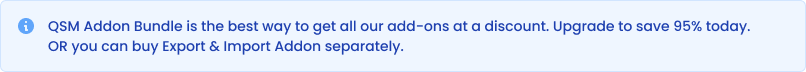
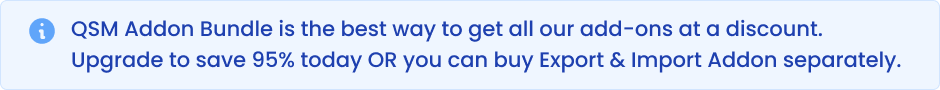
removed the inline css and made the popup div common

Changed region(s): [[0.0, 0.1944, 0.9305, 0.5], [0.062, 0.5556, 0.9615, 0.8333]]

diff --git a/css/qsm-admin.css b/css/qsm-admin.css
@@ -1729,6 +1729,17 @@ td.scheduled_time_start {
     box-sizing: border-box;
     padding: 10px;
 }
+.qsm-popup-upgrade-container{
+	padding:10px;
+}
+.qsm-popup-upgrade-close{
+	border:none;
+	padding:0px;
+}
+.qsm-popup-upgrade-text{
+	padding-top:none;
+	font-size:13px;
+}
 .qsm-upgrade-box h3{
     font-size: 20px;
     line-height: normal;
@@ -1793,6 +1804,15 @@ td.scheduled_time_start {
 .qsm-upgrade-chart{
 	width:100%;
 }
+.qsm-upgrade-chart img{
+	width:100%;
+}
+.qsm-popup-upgrade-info{
+	margin-top:20px;
+}
+.qsm-popup-upgrade-info img{
+	width:100%;
+}
 .qsm-upgrade-buttons-div{
 	width:98%;
 	box-sizing: border-box;
@@ -1808,6 +1828,26 @@ td.scheduled_time_start {
 	width:95%;
 	text-align: center;
 	padding-top:10px;
+}
+.qsm-upgrade-buttons-report-analysis{
+	flex-wrap: nowrap;
+	margin-left:-3px;
+	width:75%;
+}
+.qsm-upgrade-box .qsm-upgrade-buttons-report-analysis .qsm_bundle{
+	width:50%;
+	font-size:20px;
+}
+.qsm_report_analysis{
+	margin-left:-185px;
+	padding-left:10px;
+	color: #1D4ED8;
+	text-decoration:none;
+	font-weight: bold;
+	font-size:20px;
+	width: 100%;
+	text-align: center;
+	margin-top: 5px;
 }
 /** * Style tab design */
 .wp-upload-form {

diff --git a/js/qsm-admin.js b/js/qsm-admin.js
@@ -2692,7 +2692,7 @@ var import_button;
                         $('.correct-answer').show();
                     }
                     if (15 == question_val || 16 == question_val || 17 == question_val) {
-                        MicroModal.show('qsm_advanced_question_type_popup');
+                        MicroModal.show('modal-advanced-question-type');
                     } 
                     // show points field only for polar in survey and simple form
                     if (qsmQuestionSettings.form_type != 0) {

diff --git a/php/admin/functions.php b/php/admin/functions.php
@@ -1184,34 +1184,35 @@ function qsm_sanitize_rec_array( $array, $textarea = false ) {
 
 function qsm_admin_upgrade_popup( $qsm_pop_up_arguments ) {
 ?>
+<div class="qsm-popup qsm-popup-slide qsm-standard-popup qsm-popup-upgrade" id="<?php echo  $qsm_pop_up_arguments['popup_id']; ?>" aria-hidden="false" 
+	style="display:none">
 	<div class="qsm-popup__overlay" tabindex="-1">
-	<div class="qsm-popup__container" role="dialog" aria-modal="true" aria-labelledby="modal-export-import-title"
-	style="padding:10px">
+	<div class="qsm-popup__container qsm-popup-upgrade-container" role="dialog" aria-modal="true" aria-labelledby="modal-export-import-title">
 	<div class="qsm-upgrade-box">
 	<header class="qsm-popup__header" >
 		<h5><?php esc_html_e('PREMIUM', 'quiz-master-next'); ?></h5>
-		<a  class="qsm-popup__close" style="border:none;padding:0px;" aria-label="Close modal" data-micromodal-close></a>
+		<a  class="qsm-popup__close qsm-popup-upgrade-close" aria-label="Close modal" data-micromodal-close></a>
 	</header>
 <h2><?php echo $qsm_pop_up_arguments['popup_title']; ?></h2>
 <?php
 $read_icon_image             = plugins_url('', dirname(__FILE__)) . '/images/read_icon.png';
 ?>
-<div class="qsm-upgrade-text" style="padding-top:none;font-size:13px;"><?php echo  $qsm_pop_up_arguments['popup_description']; ?></div>
+<div class="qsm-upgrade-text qsm-popup-upgrade-text"><?php echo  $qsm_pop_up_arguments['popup_description']; ?></div>
 <span  class="qsm-upgrade-read-icon">
 	<img src= <?php echo $read_icon_image; ?> alt="read">&nbsp;<a href="<?php echo esc_url(qsm_get_plugin_link('docs/'.$qsm_pop_up_arguments['popup_doc_link'],
 	'quiz-help-box', 'add-ons')); ?>" target="_blank" rel="noopener" ><?php esc_html_e('Read Documentation', 'quiz-master-next' ); ?></a>
 	<span class="dashicons dashicons-arrow-right-alt qsm-upgrade-right-arrow" ></span>
 </span>
-<div class="qsm-upgrade-chart"><img  style="width:100%" src= <?php echo  $qsm_pop_up_arguments['popup_chart_image'];?> alt="chart"></div>
-<div style="margin-top:20px;"><img  style="width:100%" src= <?php  echo $qsm_pop_up_arguments['popup_information'];?> alt="information"></div>
+<div class="qsm-upgrade-chart"><img src= <?php echo  $qsm_pop_up_arguments['popup_chart_image'];?> alt="chart"></div>
+<div class="qsm-popup-upgrade-info"><img  src= <?php  echo $qsm_pop_up_arguments['popup_information'];?> alt="information"></div>
 <div  class="qsm-upgrade-buttons-div">
-<a href="<?php echo esc_url(qsm_get_plugin_link('pricing', 'quiz-list-page')); ?>" target="_blank"   
-class="qsm-popup__btn qsm-popup__btn-primary qsm_bundle"  rel="noopener"><?php esc_html_e('Upgrade to QSM Bundle', 'quiz-master-next'); ?></a>
-<a href="<?php echo esc_url(qsm_get_plugin_link('downloads/'.$qsm_pop_up_arguments['popup_addon_link'], 'quiz-list-page')); ?>"   
-target="_blank" class="qsm_export_import"  rel="noopener" ><?php echo $qsm_pop_up_arguments['popup_addon_name']; ?></a>
+	<a href="<?php echo esc_url(qsm_get_plugin_link('pricing', 'quiz-list-page')); ?>" target="_blank"   
+	class="qsm-popup__btn qsm-popup__btn-primary qsm_bundle"  rel="noopener"><?php esc_html_e('Upgrade to QSM Bundle', 'quiz-master-next'); ?></a>
+	<a href="<?php echo esc_url(qsm_get_plugin_link('downloads/'.$qsm_pop_up_arguments['popup_addon_link'], 'quiz-list-page')); ?>"   
+	target="_blank" class="qsm_export_import"  rel="noopener" ><?php echo $qsm_pop_up_arguments['popup_addon_name']; ?></a>
 </div>
 </div>
-	</div>
+</div>
 </div>
 
 <?php } ?>

diff --git a/php/admin/admin-results-page.php b/php/admin/admin-results-page.php
@@ -566,14 +566,12 @@ function qsm_reporting_analysis_tabs_content() {
 		</span>
 		<div><img src= <?php echo $report_analysis_chart_image; ?> alt="chart"></div>
 		<div><img src= <?php echo $information_image; ?> alt="information"></div>
-		<div class="qsm-upgrade-buttons" style="flex-wrap: nowrap;margin-left:-3px;width:75%;">
+		<div class="qsm-upgrade-buttons qsm-upgrade-buttons-report-analysis">
 			<a href="<?php echo esc_url(qsm_get_plugin_link('pricing', 'quiz-list-page')); ?>"
 			target="_blank" class="qsm-popup__btn qsm-popup__btn-primary qsm_bundle" 
-			style="width:50%;font-size:20px;"  rel="noopener"><?php esc_html_e('Upgrade to QSM Bundle', 'quiz-master-next'); ?></a>
+			rel="noopener"><?php esc_html_e('Upgrade to QSM Bundle', 'quiz-master-next'); ?></a>
 			<a href="<?php echo esc_url( qsm_get_plugin_link('downloads/results-analysis', 'quiz-list-page')); ?>" target="_blank" class="qsm_report_analysis" 
-			style="margin-left:-185px;padding-left:10px;color: #1D4ED8;text-decoration:none;font-weight: bold;font-size:20px;
-			width: 100%;text-align: center;margin-top: 5px;"  rel="noopener" >
-			<?php esc_html_e('Buy Report & Analysis Addon', 'quiz-master-next'); ?></a>
+			rel="noopener" ><?php esc_html_e('Buy Report & Analysis Addon', 'quiz-master-next'); ?></a>
 		</div>
 	</div>
 	<?php

diff --git a/php/admin/quiz-options-page.php b/php/admin/quiz-options-page.php
@@ -273,12 +273,10 @@ function qsm_generate_quiz_options() {
 	<?php
 	add_action('admin_footer', 'qsm_quiz_options_notice_template');?>
 	<!--Div for the upgrade popup of advanced question type -->
-	<div class="qsm-popup qsm-popup-slide qsm-standard-popup qsm-popup-upgrade" id="qsm_advanced_question_type_popup" aria-hidden="false" 
-	style="display:none">
 	<?php
 		if ( ! class_exists('QSM_Advance_Question') ) {
 			$qsm_pop_up_arguments = array(
-				"popup_id"          => 'modal-export-import',
+				"popup_id"          => 'modal-advanced-question-type',
 				"popup_title"       => 'ADVANCED QUESTION TYPE',
 				"popup_description" => "Create better quizzes and surveys with the Advanced Questions addon. Incorporate precise question types like Matching Pairs, Radio Grid, 
 										and Checkbox Grid questions in your quizzes and surveys.",
@@ -291,7 +289,6 @@ function qsm_generate_quiz_options() {
 			qsm_admin_upgrade_popup($qsm_pop_up_arguments);
 		}
 	?>
-	</div>
 <?php
 }
 

diff --git a/php/admin/quizzes-page.php b/php/admin/quizzes-page.php
@@ -434,7 +434,6 @@ if ( ! class_exists( 'QSMQuizList' ) ) {
 					</div>
 				</div>
 				<!-- Popup for export import upsell -->
-				<div class="qsm-popup qsm-popup-slide qsm-standard-popup qsm-popup-upgrade" id="modal-export-import" aria-hidden="false" style="display:none">
 				<?php
 				$qsm_pop_up_arguments = array(
 					"popup_id"          => 'modal-export-import',
